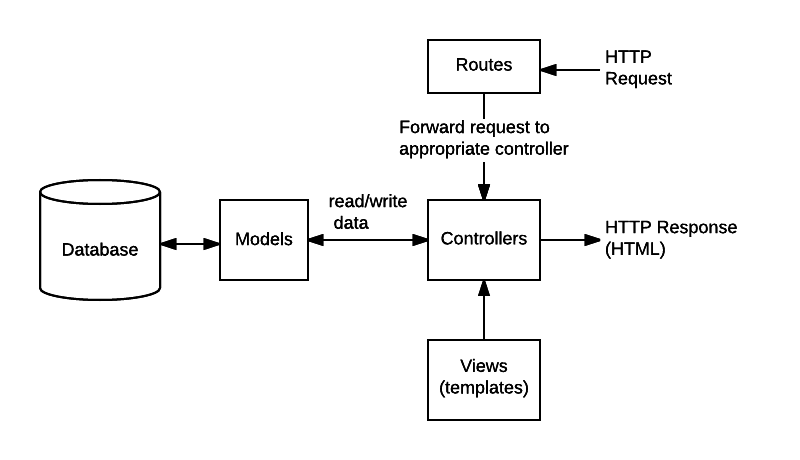
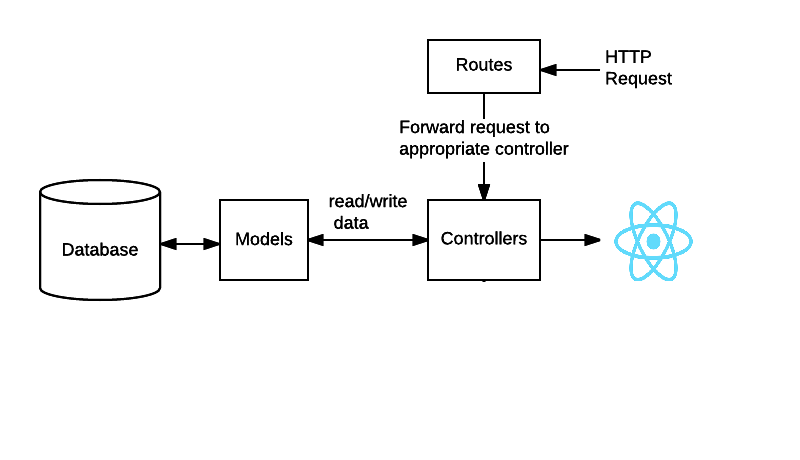
postman

Changed region(s): [[0.75, 0.4261, 0.9375, 0.6087], [0.5312, 0.7304, 0.6875, 0.913], [0.5938, 0.6087, 0.625, 0.6696]]

diff --git a/_posts/2024-02-13-movie-03.md b/_posts/2024-02-13-movie-03.md
@@ -18,7 +18,7 @@ tags: [Design]
 
 먼저 server 폴더를 만들고 터미널에 `npm init -y`을 실행하여 npm을 사용할 수 있는 초기 환경을 설정합니다.
 
-View 부분으로는 추후에 React로 따로 구현할 예정이므로 **Router**, **Controller**, **Model** 먼저 구현하겠습니다.
+View 부분으로는 추후에 React로 따로 구현할 예정이므로 **routes**, **controllers**, **models** 먼저 구현하겠습니다.
 
 ---
 
@@ -86,11 +86,11 @@ app.listen(process.env.PORT, () => {
 
 ---
 
-## Router 설정
+## router 설정
 
 routes 폴더에 `movie.route.js` 파일을 생성한 후 express router를 작성합니다.
 
-Route는 사용자가 요청한 **URL 경로와 HTTP 메소드**에 따라 정해진 **Controller로 연결**해줍니다.
+route는 사용자가 요청한 **URL 경로와 HTTP 메소드**에 따라 정해진 **controller로 연결**해줍니다.
 
 즉, **요청에 대한 응답을 결정**하는 역할을 합니다.
 
@@ -115,13 +115,13 @@ export default router;
 
 ---
 
-## Controller 설정
+## controller 설정
 
 **controllers 폴더**에 `movie.controller.js` 파일을 생성한 후 작성하겠습니다.
 
-Controller는 Model과 View의 중간다리 역할로 **Model이 가져온 데이터를 가공하여 View에 전달**하거나 **View가 요청과 보낸 데이터를 Model에 전달하는 역할**을 합니다.
+controller는 model과 view의 중간다리 역할로 **model이 가져온 데이터를 가공하여 view에 전달**하거나 **view가 보낸 데이터를 model에 전달하는 역할**을 합니다.
 
-즉, **작업할 Model과 렌더링할 View를 정의**하는 역할을 합니다.
+즉, **작업할 model과 렌더링할 view를 정의**하는 역할을 합니다.
 
 ```js
 import movieStorage from "../models/movie.model.js";
@@ -177,7 +177,7 @@ export default {
 
 ---
 
-## Model 설정
+## model 설정
 
 models 폴더에 `movie.model.js` 파일을 생성한 후 작성해보겠습니다.
 
@@ -356,7 +356,13 @@ export default movieStorage;
 
 ## 응답 테스트
 
-![mvc-logic](/assets/img/mvc-logic.png)
+1. 전체 영화에 대한 기본 정보 가져오기
+
+   ![postman-test-01](/assets/img/movie-postman-test-01.png)
+
+2. id 값으로 특정 영화 상세 정보 가져오기
+
+   ![postman-test-01](/assets/img/movie-postman-test-02.png)
 
 ---
 

diff --git a/_posts/2024-05-11-movie-11.md b/_posts/2024-05-11-movie-11.md
@@ -1,16 +1,12 @@
 ---
-title: 영화 정보 제공 사이트 - 04
+title: 영화 정보 제공 사이트 - 11
 author: Psmin
-data: 2024-02-19 22:44:37 +0900
+data: 2024-05-11 22:44:37 +0900
 categories: [Project, Movie Story]
 tags: [Design]
 ---
 
-# 수집한 데이터를 제공할 페이지 화면을 설계해보자.
-
----
-
-## 화면 설계
+#
 
 ---
 
